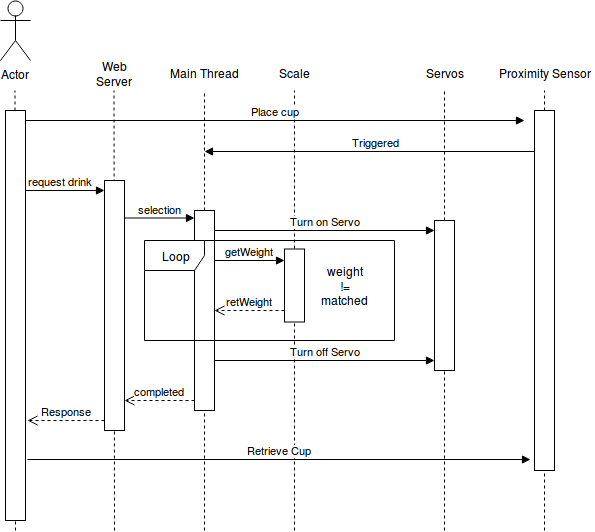
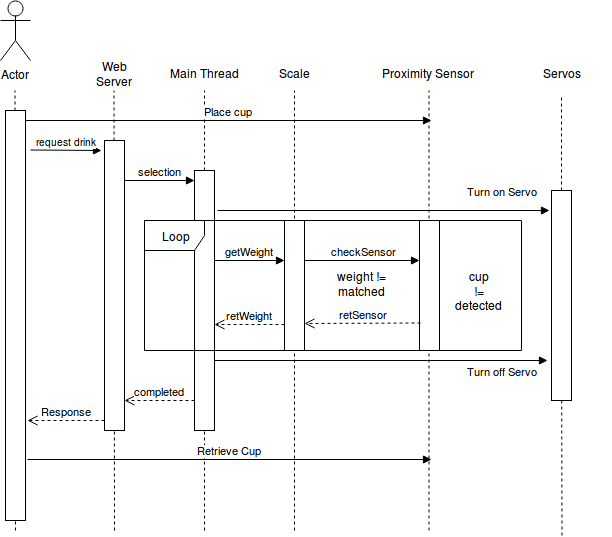
Altered UML file

diff --git a/README.md b/README.md
@@ -21,4 +21,6 @@ Servo and solenoid actuated optic dispensing
 
 ### Completed as a project towards Real Time Embedded Programming 5 at the University of Glasgow
 
+## Overview
+![Alt text](assets/InteractionDiagram.png)
 
